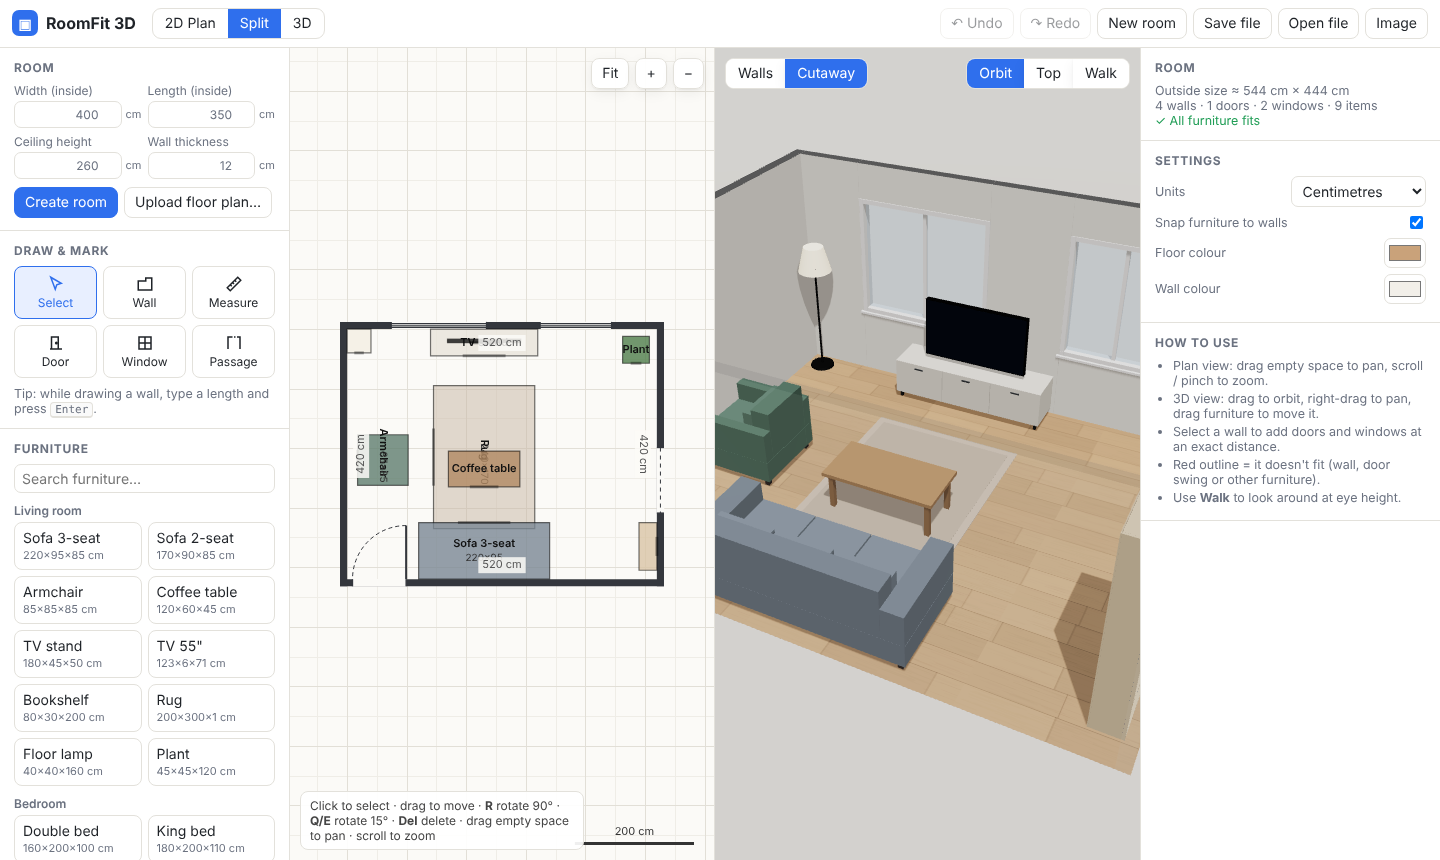
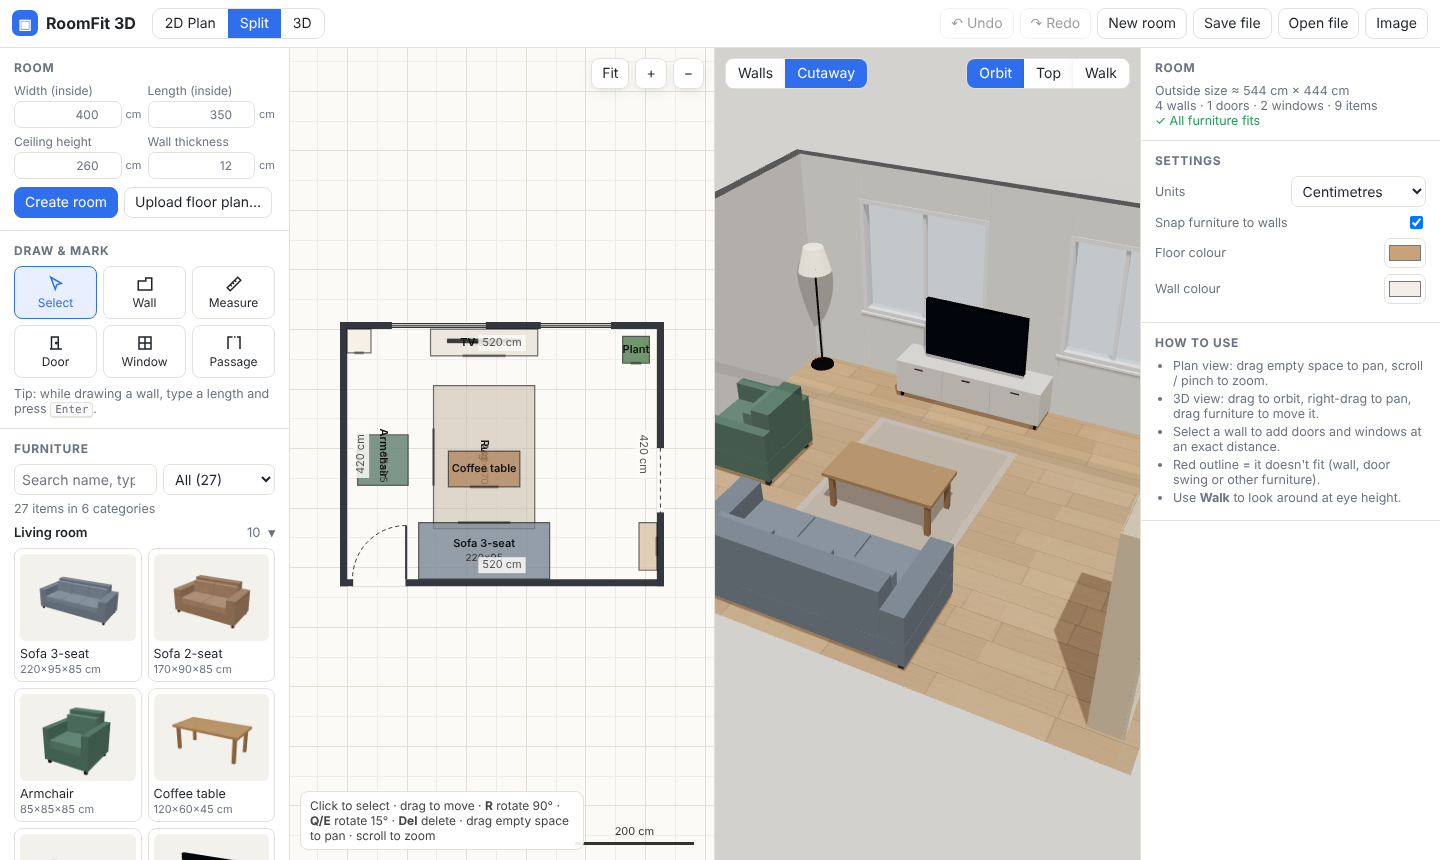
Scale furniture catalogue to hundreds of items
Load catalogue from CSV/JSON (catalogUrl), category filter + multi-word
search (name, category, tags, sku), collapsed groups, lazily rendered
3D thumbnails, prices with room total and product links, Draco/Meshopt
compressed GLB support, ?add= waits for catalogue.

Claude-Session: https://claude.ai/code/session_01FpimT3TvPjZC6HnMJTHmgZ

Changed region(s): [[0.0, 0.5442, 0.1875, 1.0]]

diff --git a/room-planner/index.html b/room-planner/index.html
@@ -23,7 +23,7 @@ button.primary:hover{filter:brightness(1.05)}
 button.danger{color:var(--danger)}
 button.on{background:var(--accent-soft);border-color:var(--accent);color:var(--accent)}
 button:disabled{opacity:.45;cursor:default}
-input[type=number],input[type=text],select{border:1px solid var(--line);border-radius:7px;padding:5px 7px;background:#fff;width:100%;min-width:0}
+input[type=number],input[type=text],input[type=search],select{border:1px solid var(--line);border-radius:7px;padding:5px 7px;background:#fff;width:100%;min-width:0}
 input[type=number]{text-align:right}
 input[type=color]{border:1px solid var(--line);border-radius:7px;width:42px;height:30px;padding:2px;background:#fff}
 input[type=range]{width:100%}
@@ -55,9 +55,21 @@ aside.right{border-left:1px solid var(--line)}
 .tools button{display:flex;flex-direction:column;align-items:center;gap:3px;padding:8px 4px;font-size:12px}
 .tools button svg{width:18px;height:18px}
 .cat-title{font-size:12px;color:var(--muted);margin:10px 0 4px;font-weight:600}
+.catbar{display:grid;grid-template-columns:1fr 112px;gap:6px}
 .catalog{display:grid;grid-template-columns:1fr 1fr;gap:6px}
-.catalog button{text-align:left;padding:7px 8px;display:flex;flex-direction:column;gap:2px}
+.catalog button{text-align:left;padding:5px;display:flex;flex-direction:column;gap:2px;min-width:0}
+.catalog .th{width:100%;aspect-ratio:4/3;border-radius:6px;background:#f3f1ec center/contain no-repeat;margin-bottom:3px}
+.catalog .nm{font-size:12.5px;white-space:nowrap;overflow:hidden;text-overflow:ellipsis;max-width:100%}
 .catalog button small{color:var(--muted);font-size:11px}
+.catalog .pr{font-size:11.5px;font-weight:600;color:var(--ink)}
+details.cat{border-bottom:1px solid var(--line)}
+details.cat summary{cursor:pointer;padding:8px 0;font-size:13px;font-weight:600;display:flex;justify-content:space-between;list-style:none}
+details.cat summary::-webkit-details-marker{display:none}
+details.cat summary::after{content:'▸';color:var(--muted)}
+details.cat[open] summary::after{content:'▾'}
+details.cat summary span{color:var(--muted);font-weight:400;margin-left:auto;margin-right:8px}
+details.cat .catalog{padding-bottom:10px}
+.plink{color:var(--accent);text-decoration:none;font-weight:600}
 .steps{margin:0;padding-left:18px;color:var(--muted);font-size:12.5px}
 .steps li{margin:3px 0}
 .steps li.done{color:var(--ok)}
@@ -190,7 +202,8 @@ aside.right{border-left:1px solid var(--line)}
 
       <div class="sec">
         <h3>Furniture</h3>
-        <input type="text" id="catSearch" placeholder="Search furniture…">
+        <div class="catbar"><input type="search" id="catSearch" placeholder="Search name, type, code…"><select id="catFilter" title="Category"></select></div>
+        <div class="muted" id="catCount" style="margin-top:6px"></div>
         <div id="catalog"></div>
         <div class="btnrow">
           <button id="btnModel" title="Import your own 3D model (.glb)">Import 3D model (.glb)</button>
@@ -275,6 +288,8 @@ aside.right{border-left:1px solid var(--line)}
 import * as THREE from 'three';
 import { OrbitControls } from 'three/addons/controls/OrbitControls.js';
 import { GLTFLoader } from 'three/addons/loaders/GLTFLoader.js';
+import { DRACOLoader } from 'three/addons/loaders/DRACOLoader.js';
+import { MeshoptDecoder } from 'three/addons/libs/meshopt_decoder.module.js';
 
 /* ============================================================
    CONFIG
@@ -287,6 +302,8 @@ const CFG = Object.assign({
   products: [],            // [{id,name,category,w,d,h (cm),color,model:'url.glb',elev}]
   hideDefaultCatalog: false,
   showStartScreen: true,
+  catalogUrl: null,        // optional: 'catalog.json' or 'catalog.csv' (one row per product, see README)
+  currency: null,          // e.g. 'ILS', 'USD', 'EUR' - shows prices and a room total
 }, window.ROOMFIT_CONFIG || {});
 document.getElementById('brandTitle').textContent = CFG.title;
 if (CFG.accent) document.documentElement.style.setProperty('--accent', CFG.accent);
@@ -471,8 +488,40 @@ const DEFAULT_CATALOG = [
   { cat: 'Kitchen & bath', type: 'bathtub', name: 'Bathtub', w: 170, d: 75, h: 58, color: '#fafafa' },
   { cat: 'Custom', type: 'box', name: 'Custom box', w: 100, d: 50, h: 50, color: '#9aa5b1' },
 ];
-const CATALOG = [...(CFG.hideDefaultCatalog ? [] : DEFAULT_CATALOG),
-  ...CFG.products.map(p => ({ cat: p.category || 'Our products', type: p.model ? 'model' : (p.type || 'box'), ...p }))];
+const slug = t => String(t).toLowerCase().replace(/[^a-z0-9\u0590-\u05ff]+/g, '-').replace(/^-|-$/g, '');
+function normProduct(p) {
+  const n = k => (p[k] === '' || p[k] == null) ? undefined : +p[k];
+  const o = { ...p, cat: p.cat || p.category || 'Our products', name: p.name || p.id || 'Item', w: n('w') || 50, d: n('d') || 50, h: n('h') || 50, elev: n('elev') || 0, price: n('price'),
+    tags: Array.isArray(p.tags) ? p.tags : String(p.tags || '').split(/[;|]/).map(t => t.trim()).filter(Boolean) };
+  o.type = p.model ? 'model' : (p.type && BUILD_TYPES.includes(p.type) ? p.type : 'box');
+  o.id = p.id ? String(p.id) : slug(o.cat + '-' + o.name);
+  o.search = [o.name, o.cat, o.id, p.sku, o.type, ...o.tags].join(' ').toLowerCase();
+  return o;
+}
+const BUILD_TYPES = ['box', 'sofa', 'bed', 'table', 'roundtable', 'chair', 'desk', 'wardrobe', 'bookshelf', 'dresser', 'tvstand', 'tv', 'fridge', 'counter', 'washer', 'bathtub', 'rug', 'plant', 'lamp'];
+let CATALOG = [];
+function setCatalog(extra) { CATALOG = [...(CFG.hideDefaultCatalog ? [] : DEFAULT_CATALOG), ...CFG.products, ...extra].map(normProduct); }
+function parseCSV(text) {
+  const rows = []; let row = [], f = '', q = false; const first = text.split(/\r?\n/)[0], semi = !first.includes(',') && first.includes(';');
+  for (let i = 0; i < text.length; i++) { const c = text[i];
+    if (q) { if (c === '"') { if (text[i + 1] === '"') { f += '"'; i++; } else q = false; } else f += c; }
+    else if (c === '"') q = true; else if (semi ? c === ';' : c === ',') { row.push(f); f = ''; }
+    else if (c === '\n' || c === '\r') { if (c === '\r' && text[i + 1] === '\n') i++; row.push(f); f = ''; if (row.some(x => x.trim())) rows.push(row); row = []; }
+    else f += c; }
+  row.push(f); if (row.some(x => x.trim())) rows.push(row);
+  const head = rows.shift().map(h => h.trim().toLowerCase());
+  return rows.map(r => Object.fromEntries(head.map((h, i) => [h, (r[i] ?? '').trim()])));
+}
+async function loadCatalog() {
+  let extra = [];
+  if (CFG.catalogUrl) {
+    try { const res = await fetch(CFG.catalogUrl); if (!res.ok) throw new Error(res.status); const txt = await res.text();
+      extra = /\.csv(\?|$)/i.test(CFG.catalogUrl) || !/^\s*[\[{]/.test(txt) ? parseCSV(txt) : (j => Array.isArray(j) ? j : j.products || [])(JSON.parse(txt)); }
+    catch (e) { console.error('Catalogue', e); toast('Could not load the product catalogue.'); }
+  }
+  setCatalog(extra);
+}
+setCatalog([]);
 const FLAT_TYPES = new Set(['rug']);
 
 /* ============================================================
@@ -675,6 +724,7 @@ function buildRoom3D() {
 /* ---------- furniture objects ---------- */
 const itemObjs = new Map();  // id -> {grp, key, outline}
 const gltfLoader = new GLTFLoader(); const modelCache = new Map();
+{ const draco = new DRACOLoader(); draco.setDecoderPath('https://cdn.jsdelivr.net/npm/three@0.160.0/examples/jsm/libs/draco/gltf/'); gltfLoader.setDRACOLoader(draco); gltfLoader.setMeshoptDecoder(MeshoptDecoder); }  // compressed .glb support
 function loadModel(url) { if (!modelCache.has(url)) modelCache.set(url, gltfLoader.loadAsync(url).then(g => g.scene)); return modelCache.get(url); }
 const itemKey = it => [it.type, it.w, it.d, it.h, it.color, it.model, it.rows].join('|');
 const outlineGeo = new THREE.EdgesGeometry(new THREE.BoxGeometry(1, 1, 1));
@@ -1195,6 +1245,15 @@ function detectWalls() {
 function select(s, render = true) {
   sel = s; if (render) renderProps(); for (const i of state.items) placeItem3D(i); drawPlanSoon();
 }
+const productOf = it => it.pid ? CATALOG.find(c => c.id === it.pid) : null;
+function shoppingList() {
+  const rows = new Map();
+  for (const it of state.items) { const p = productOf(it); if (!p || p.price == null) continue; const r = rows.get(p.id) || { p, n: 0 }; r.n++; rows.set(p.id, r); }
+  if (!rows.size) return '';
+  const curs = new Set([...rows.values()].map(r => r.p.currency || CFG.currency || '')); const total = [...rows.values()].reduce((s2, r) => s2 + r.p.price * r.n, 0);
+  return `<div class="sec"><h3>In this room</h3>${[...rows.values()].map(r => `<div class="row"><label>${r.n > 1 ? r.n + ' × ' : ''}${r.p.url ? `<a class="plink" style="font-weight:400" href="${esc(r.p.url)}" target="_blank" rel="noopener">${esc(r.p.name)}</a>` : esc(r.p.name)}</label><span>${esc(money(r.p.price * r.n, r.p.currency))}</span></div>`).join('')}
+    ${curs.size === 1 ? `<div class="row" style="border-top:1px solid var(--line);padding-top:6px"><label><b style="color:var(--ink)">Total</b></label><b>${esc(money(total, [...curs][0]))}</b></div>` : ''}</div>`;
+}
 const numF = (label, key, valM, step = 1, extra = '') => `<div class="field">${label}<div class="inp"><input type="number" data-k="${key}" value="${toU(valM)}" step="${step}" ${extra}><span class="u">${U().s}</span></div></div>`;
 function renderProps() {
   const el = $('#props'); const o = findSel(); const S = state.settings;
@@ -1205,6 +1264,7 @@ function renderProps() {
         ${state.walls.length ? `<div class="muted">Outside size ≈ ${fmt(b.w)} × ${fmt(b.h)}</div><div class="muted">${state.walls.length} walls · ${state.openings.filter(o => o.type === 'door').length} doors · ${state.openings.filter(o => o.type === 'window').length} windows · ${state.items.length} items</div>` : '<div class="muted">No walls yet. Create a room on the left, or upload a floor plan.</div>'}
         ${nC ? `<div class="warn">⚠ ${nC} item${nC > 1 ? 's' : ''} collide with walls, doors or other furniture (red outline).</div>` : state.items.length ? '<div class="okmsg">✓ All furniture fits</div>' : ''}
       </div>
+      ${shoppingList()}
       <div class="sec"><h3>Settings</h3>
         <div class="row"><label>Units</label><select id="sUnits" style="width:50%"><option value="cm">Centimetres</option><option value="in">Inches</option></select></div>
         <div class="row"><label>Snap furniture to walls</label><input type="checkbox" id="sSnap" ${S.snapWalls ? 'checked' : ''}></div>
@@ -1232,6 +1292,7 @@ function renderProps() {
     el.innerHTML = `
       <div class="sec"><h3>Furniture</h3>
         <div class="field">Name<input type="text" data-k="name" value="${esc(it.name)}"></div>
+        ${(p => p && (p.price != null || p.url) ? `<div class="row" style="margin-top:8px">${p.price != null ? `<label>Price</label><b>${esc(money(p.price, p.currency))}</b>` : '<label></label>'}${p.url ? `<a class="plink" href="${esc(p.url)}" target="_blank" rel="noopener">View product ↗</a>` : ''}</div>` : '')(productOf(it))}
         <div class="grid3" style="margin-top:8px">${numF('Width', 'w', it.w)}${numF('Depth', 'd', it.d)}${numF('Height', 'h', it.h)}</div>
         <div class="grid2" style="margin-top:8px">${numF('Lift from floor', 'elev', it.elev || 0)}<div class="field">Rotation<div class="inp"><input type="number" data-k="rot" value="${Math.round(((deg(it.rot) % 360) + 360) % 360)}" step="5"><span class="u">°</span></div></div></div>
         <div class="grid2" style="margin-top:8px">${numF('Position X', 'x', it.x)}${numF('Position Y', 'y', it.y)}</div>
@@ -1323,21 +1384,68 @@ function duplicate() { const o = findSel(); if (!o || sel.kind !== 'item') retur
    ============================================================ */
 function addItem(entry) {
   const b = roomBounds();
-  const it = { id: uid(), type: entry.type, name: entry.name, w: entry.w / 100, d: entry.d / 100, h: entry.h / 100, color: entry.color || '#9aa5b1', elev: (entry.elev || 0) / 100, rot: 0, x: b.cx, y: b.cy, model: entry.model || null, rows: entry.rows };
+  const it = { id: uid(), type: entry.type, name: entry.name, w: entry.w / 100, d: entry.d / 100, h: entry.h / 100, color: entry.color || '#9aa5b1', elev: (entry.elev || 0) / 100, rot: 0, x: b.cx, y: b.cy, model: entry.model || null, rows: entry.rows, pid: entry.id || null };
   // find a free spot near the centre
   pushUndo(); state.items.push(it);
-  if (!FLAT_TYPES.has(it.type)) { computeConflicts(); const R0 = 0.25; outer: for (let r = 0; r < 6 && conflicts.has(it.id); r++) for (let a = 0; a < 8; a++) { it.x = b.cx + Math.cos(a * Math.PI / 4) * r * R0 * 2; it.y = b.cy + Math.sin(a * Math.PI / 4) * r * R0 * 2; computeConflicts(); if (!conflicts.has(it.id)) break outer; } }
+  if (!FLAT_TYPES.has(it.type)) { computeConflicts(); const R0 = 0.25; outer: for (let r = 0; r < 6 && conflicts.has(it.id); r++) for (let a = 0; a < 8; a++) { it.x = b.cx + Math.cos(a * Math.PI / 4) * r * R0 * 2; it.y = b.cy + Math.sin(a * Math.PI / 4) * r * R0 * 2; computeConflicts(); if (!conflicts.has(it.id)) break outer; } if (conflicts.has(it.id)) { it.x = b.cx; it.y = b.cy; snapItem(it); computeConflicts(); } }
   sel = { kind: 'item', id: it.id }; changed({ items: true, props: true });
   if ($('#stage').classList.contains('m-plan')) setView('split');
   return it;
 }
+/* ---------- catalogue list (built for hundreds of items) ---------- */
+const openCats = new Set(); let catsInit = false;
+function money(v, cur) { cur = cur || CFG.currency; if (v == null || isNaN(v)) return ''; try { return cur ? new Intl.NumberFormat(undefined, { style: 'currency', currency: cur, maximumFractionDigits: 0 }).format(v) : String(v); } catch (e) { return v + ' ' + cur; } }
+function catCard(c) {
+  const f = UNITS[state.settings.units], i = CATALOG.indexOf(c);
+  const th = c.thumb ? `style="background-image:url('${encodeURI(c.thumb)}')"` : (thumbCache.has(thumbKey(c)) ? `style="background-image:url(${thumbCache.get(thumbKey(c))})"` : `data-th="${i}"`);
+  return `<button data-i="${i}" title="Add ${esc(c.name)}"><span class="th" ${th}></span><span class="nm">${esc(c.name)}</span><small>${Math.round(c.w / 100 * f.f)}×${Math.round(c.d / 100 * f.f)}×${Math.round(c.h / 100 * f.f)} ${f.s}</small>${c.price != null ? `<span class="pr">${esc(money(c.price, c.currency))}</span>` : ''}</button>`;
+}
 function renderCatalog() {
-  const q = $('#catSearch').value.trim().toLowerCase(); const el = $('#catalog'); let html = '', last = null;
-  const list = CATALOG.filter(c => !q || (c.name + ' ' + c.cat).toLowerCase().includes(q));
-  const cats = [...new Set(list.map(c => c.cat))];
-  for (const cat of cats) { html += `<div class="cat-title">${esc(cat)}</div><div class="catalog">`; list.forEach((c, i) => { if (c.cat !== cat) return; const f = UNITS[state.settings.units]; html += `<button data-i="${CATALOG.indexOf(c)}" title="Add ${esc(c.name)}">${esc(c.name)}<small>${Math.round(c.w / 100 * f.f)}×${Math.round(c.d / 100 * f.f)}×${Math.round(c.h / 100 * f.f)} ${f.s}</small></button>`; }); html += '</div>'; }
-  el.innerHTML = html || '<div class="muted" style="margin-top:8px">Nothing found.</div>';
-  $$('button[data-i]', el).forEach(b => b.onclick = () => addItem(CATALOG[+b.dataset.i]));
+  const q = $('#catSearch').value.trim().toLowerCase(), words = q.split(/\s+/).filter(Boolean), sel_ = $('#catFilter');
+  const cats = [...new Set(CATALOG.map(c => c.cat))];
+  if (!catsInit || sel_.options.length !== cats.length + 1) { const cur = sel_.value; sel_.innerHTML = `<option value="">All (${CATALOG.length})</option>` + cats.map(c => `<option value="${esc(c)}">${esc(c)} (${CATALOG.filter(x => x.cat === c).length})</option>`).join(''); sel_.value = cats.includes(cur) ? cur : ''; if (!catsInit && cats.length) openCats.add(cats[0]); catsInit = true; }
+  const cf = sel_.value;
+  const list = CATALOG.filter(c => (!cf || c.cat === cf) && words.every(w => c.search.includes(w)));
+  const el = $('#catalog'); let html = '';
+  if (q || cf) html = `<div class="catalog" style="margin-top:8px">${list.map(catCard).join('')}</div>`;
+  else for (const cat of cats) { const items = list.filter(c => c.cat === cat); html += `<details class="cat" data-cat="${esc(cat)}" ${openCats.has(cat) ? 'open' : ''}><summary>${esc(cat)}<span>${items.length}</span></summary><div class="catalog">${openCats.has(cat) ? items.map(catCard).join('') : ''}</div></details>`; }
+  el.innerHTML = list.length ? html : '<div class="muted" style="margin-top:8px">Nothing found.</div>';
+  $('#catCount').textContent = (q || cf) ? `${list.length} of ${CATALOG.length} items` : `${CATALOG.length} items in ${cats.length} categories`;
+  $$('details.cat', el).forEach(d => d.addEventListener('toggle', () => { const cat = d.dataset.cat; if (d.open) { openCats.add(cat); const box = $('.catalog', d); if (!box.children.length) { box.innerHTML = list.filter(c => c.cat === cat).map(catCard).join(''); observeThumbs(box); } } else openCats.delete(cat); }));
+  observeThumbs(el);
+}
+$('#catalog').addEventListener('click', e => { const b = e.target.closest('button[data-i]'); if (b) addItem(CATALOG[+b.dataset.i]); });
+
+/* ---------- thumbnails: rendered on demand, only for cards that scroll into view ---------- */
+const thumbCache = new Map(), thumbQ = []; let thumbR = null, thumbBusy = false;
+const thumbKey = c => [c.type, c.model, c.w, c.d, c.h, c.color, c.rows].join('|');
+const thumbIO = new IntersectionObserver(es => es.forEach(e => { if (e.isIntersecting) { thumbIO.unobserve(e.target); thumbQ.push(e.target); pumpThumbs(); } }), { rootMargin: '150px' });
+function observeThumbs(root) { $$('[data-th]', root).forEach(t => thumbIO.observe(t)); }
+function getThumbR() {
+  if (thumbR) return thumbR;
+  const r = new THREE.WebGLRenderer({ antialias: true, alpha: true, preserveDrawingBuffer: true }); r.setSize(240, 180, false); r.outputColorSpace = THREE.SRGBColorSpace; r.toneMapping = THREE.ACESFilmicToneMapping;
+  const s = new THREE.Scene(); s.add(new THREE.HemisphereLight(0xffffff, 0x8a8070, 1.7)); const d = new THREE.DirectionalLight(0xffffff, 1.7); d.position.set(3, 5, 4); s.add(d);
+  return thumbR = { r, s, cam: new THREE.PerspectiveCamera(28, 4 / 3, 0.01, 200) };
+}
+async function pumpThumbs() {
+  if (thumbBusy) return; thumbBusy = true;
+  while (thumbQ.length) {
+    const el = thumbQ.shift(); if (!el.isConnected) continue; const c = CATALOG[+el.dataset.th]; if (!c) continue; const key = thumbKey(c);
+    if (!thumbCache.has(key)) {
+      try {
+        const { r, s, cam } = getThumbR(), g = new THREE.Group(); let shared = false;
+        if (c.type === 'model' && c.model) { const src = await loadModel(c.model); const m = src.clone(true); m.traverse(o => { if (o.isMesh) o.userData.shared = true; }); g.add(m); shared = true; }
+        else (BUILD[c.type] || BUILD.box)(g, c.w / 100, c.d / 100, c.h / 100, c.color || '#9aa5b1', c);
+        s.add(g); const bb = new THREE.Box3().setFromObject(g), sp_ = bb.getBoundingSphere(new THREE.Sphere());
+        const dir = new THREE.Vector3(0.9, 0.7, 1.5).normalize(), dist = sp_.radius / Math.sin(rad(cam.fov / 2)) * 1.02;
+        cam.position.copy(sp_.center).addScaledVector(dir, dist); cam.lookAt(sp_.center); cam.near = dist / 50; cam.far = dist * 4; cam.updateProjectionMatrix();
+        r.render(s, cam); thumbCache.set(key, r.domElement.toDataURL('image/webp', 0.85)); s.remove(g); if (!shared) disposeGroup(g);
+      } catch (e) { thumbCache.set(key, ''); }
+    }
+    const url = thumbCache.get(key); if (url) el.style.backgroundImage = `url(${url})`; el.removeAttribute('data-th');
+    await new Promise(res => setTimeout(res, 0));
+  }
+  thumbBusy = false;
 }
 async function importModel(file) {
   const url = await new Promise(res => { const r = new FileReader(); r.onload = () => res(r.result); r.readAsDataURL(file); });
@@ -1406,7 +1514,7 @@ $('#bpOpacity').oninput = e => { if (state.bg) { state.bg.opacity = +e.target.va
 $('#btnCalibrate').onclick = () => { setTool('calibrate'); };
 $('#btnDetect').onclick = detectWalls;
 $('#btnBpRemove').onclick = () => { pushUndo(); state.bg = null; bgImg = null; changed({ props: true }); };
-$('#catSearch').oninput = renderCatalog;
+$('#catSearch').oninput = renderCatalog; $('#catFilter').onchange = renderCatalog;
 $('#btnModel').onclick = () => $('#fileModel').click();
 $('#fileModel').onchange = e => { const f = e.target.files[0]; if (f) importModel(f); e.target.value = ''; };
 $('#btnExport').onclick = () => { const blob = new Blob([JSON.stringify({ app: 'roomfit3d', version: 1, ...state }, null, 1)], { type: 'application/json' }); download('my-room.json', URL.createObjectURL(blob)); };
@@ -1467,7 +1575,10 @@ changed({ room: true, items: true, props: true });
 requestAnimationFrame(() => { resize3D(); fitPlan(); setCam('orbit'); });
 const params = new URLSearchParams(location.search);
 const addParam = params.get('add');
-if (addParam) { const e = CATALOG.find(c => c.id === addParam || c.name === addParam); if (e) { if (!state.walls.length) createRect(4, 3.5, 2.6, 0.12); addItem(e); } }
+loadCatalog().then(() => {
+  renderCatalog(); if (!sel) renderProps();
+  if (addParam) { const e = CATALOG.find(c => c.id === addParam || c.sku === addParam || c.name === addParam); if (e) { closeModal(); if (!state.walls.length) createRect(4, 3.5, 2.6, 0.12); addItem(e); } else toast('Product not found: ' + addParam); }
+});
 if (!hadSaved && CFG.showStartScreen && !addParam) openModal();
 window.RoomFit = { state: () => state, addItem, createRect, sampleRoom, view: () => ({ z: P.z, ox: P.ox, oy: P.oy }) };   // small API for the host page
 </script>

diff --git a/room-planner/README.md b/room-planner/README.md
@@ -10,7 +10,7 @@ A single-file web app (`index.html`). It needs no build step and no server code:
      1. **Set scale:** click both ends of a distance you know and type the real length.
      2. **Auto-detect walls**, which finds thick dark lines in the image. Or trace the walls with the Wall tool: corners snap together, and you can type a length and press Enter.
      3. **Place doors and windows:** click on a wall, or into a gap in the plan.
-2. **Furnish:** add items from the catalogue, or import your own `.glb` model. Every item is real size, and you can edit its width, depth, height, height above the floor and rotation.
+2. **Furnish:** add items from the catalogue, or import your own `.glb` model. The catalogue handles hundreds of items: you can search by name, code or tag, filter by category, and see thumbnails and prices. Every item is real size, and you can edit its width, depth, height, height above the floor and rotation.
 3. **Check the fit:**
    - Items that hit a wall, a door swing or other furniture get a red outline.
    - The plan shows the free space from the selected item to the nearest wall in each direction.
@@ -65,10 +65,48 @@ window.ROOMFIT_CONFIG = {
 </script>
 ```
 
+### Large catalogue (hundreds of items): use a catalogue file
+
+Keep the products in a spreadsheet, export it as **CSV** (or write JSON), upload it next to `index.html`, and point the config at it:
+
+```html
+<script>
+window.ROOMFIT_CONFIG = { catalogUrl: 'catalog.csv', currency: 'ILS', hideDefaultCatalog: true };
+</script>
+```
+
+There's a template in `catalog.example.csv`. Columns:
+
+| Column | Required | Meaning |
+|---|---|---|
+| `id` | yes | Unique code, used in `?add=` links |
+| `name` | yes | Shown in the list |
+| `category` | yes | Groups the list and the category filter |
+| `w`, `d`, `h` | yes | Real size in **cm** (width, depth, height) |
+| `model` | – | `.glb` file. Draco or Meshopt compressed is fine and recommended. It is scaled to exactly w × d × h |
+| `type` | – | Built-in shape if there's no model: `sofa bed table roundtable chair desk wardrobe bookshelf dresser tvstand tv fridge counter washer bathtub rug plant lamp box` |
+| `color` | – | Hex colour for built-in shapes |
+| `elev` | – | Height above the floor in cm (e.g. a wall shelf or a TV) |
+| `price` | – | Number. Shown on the card and in the "In this room" total |
+| `currency` | – | Overrides `currency` from the config for this row |
+| `url` | – | Product page ("View product ↗") |
+| `thumb` | – | Picture for the list. If empty, a thumbnail is rendered automatically |
+| `tags` | – | Extra search words, separated by `;` |
+| `sku` | – | Searchable, also works in `?add=` |
+
+Excel files saved with `;` as the separator work too. In that case, separate tags with `|`.
+
+**Performance with 200 items:**
+- The catalogue file is small (one line per item) and loads once.
+- Categories are collapsed. Cards and thumbnails are built only when a category is opened or a card scrolls into view.
+- A `.glb` model downloads only when the item is placed in the room, or when its thumbnail is needed and no `thumb` picture is given. Give every model item a `thumb` image to avoid downloading models just for the list.
+- Keep each model small: under ~2–3 MB, Draco compressed, textures ≤ 2048 px. Export from Onshape or other CAD as glTF/GLB, then compress with e.g. `gltf-transform optimize in.glb out.glb --compress draco`.
+
 **"View in your room" button on a product page:** link to `index.html?add=oslo-sofa`. The planner opens with that product already placed. If the visitor has no room yet, it starts in a default 4 × 3.5 m room.
 
 ### Notes
 
-- three.js 0.160.0 loads from `cdn.jsdelivr.net`. pdf.js 3.11.174 loads from `cdnjs.cloudflare.com`, and only when a PDF is uploaded. Both versions are pinned.
+- `catalogUrl` needs the page to be served over http(s). Browsers block `fetch` from `file://`.
+- three.js 0.160.0 loads from `cdn.jsdelivr.net`, including the Draco decoder for compressed models. pdf.js 3.11.174 loads from `cdnjs.cloudflare.com`, and only when a PDF is uploaded. Both versions are pinned.
 - Model files (`.glb`) must be served from the same site, or from a server that allows CORS.
 - Wall auto-detection works best on clean architectural plans with filled or thick walls. If it misses walls or adds extra ones, change **Detect darkness** / **Min wall thickness**, delete the wrong pieces, or draw the walls by hand.
